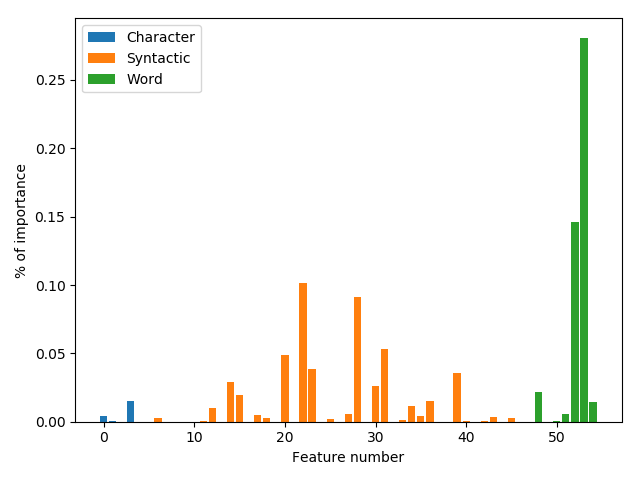
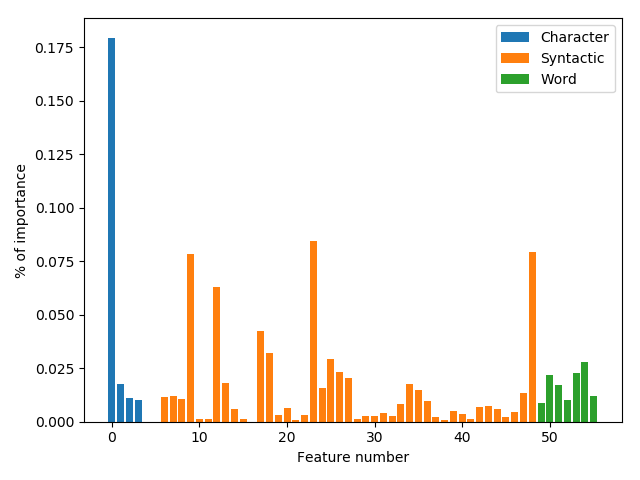
small bug with reading one of the parsed file, update features importance plot

diff --git a/statistics/graphs.py b/statistics/graphs.py
@@ -64,7 +64,7 @@ def algorithms():
     scores = np.zeros(len(util.AVAILABLE_ALGORITHMS))
     # split_by_book a.k.a spp
     sbb_scores = np.zeros(len(util.AVAILABLE_ALGORITHMS))
-    data = calculate_features.create_corpus_vector(authors_num=2)
+    data = calculate_features.create_corpus_vector()
     labels = []
     for name, algo in util.AVAILABLE_ALGORITHMS.items():
         scores[util.ALGORITHMS_NUMS[name]] = (algo.run(util, util.TEST_SIZE, data, repeat=True)[1])
@@ -97,6 +97,3 @@ def algorithms():
 #         plt.text(rect.get_x() + rect.get_width() / 2.0, height, '%0.2f' % height, ha='center', va='bottom')
 #     plt.xticks(range(3), labels)
 #     plt.show()
-
-
-feature_importance()

diff --git a/src/features/syntactic_features.py b/src/features/syntactic_features.py
@@ -2,7 +2,7 @@ import string
 import nltk
 import re
 
-FEATURE_NUM = 42
+FEATURE_NUM = 43
 tags_count = 0
 tags_frequencies = {}
 verbs_frequencies = {}
@@ -120,7 +120,7 @@ def dependency_parse(sent, parser):
 
 def average_tree_depth(author, book, filename):
     total_trees_depth = 0
-    with open("corpus/parsed_data/"+author+"/"+book+"/"+filename, 'r') as file:
+    with open("corpus/parsed_data/"+author+"/"+book+"/"+filename, 'r', encoding='utf-8', errors='ignore') as file:
         parsed_text = file.read()
     parsed_sents = parsed_text.split("\n~~~~~~\n")
     for parsed_sent in parsed_sents:
